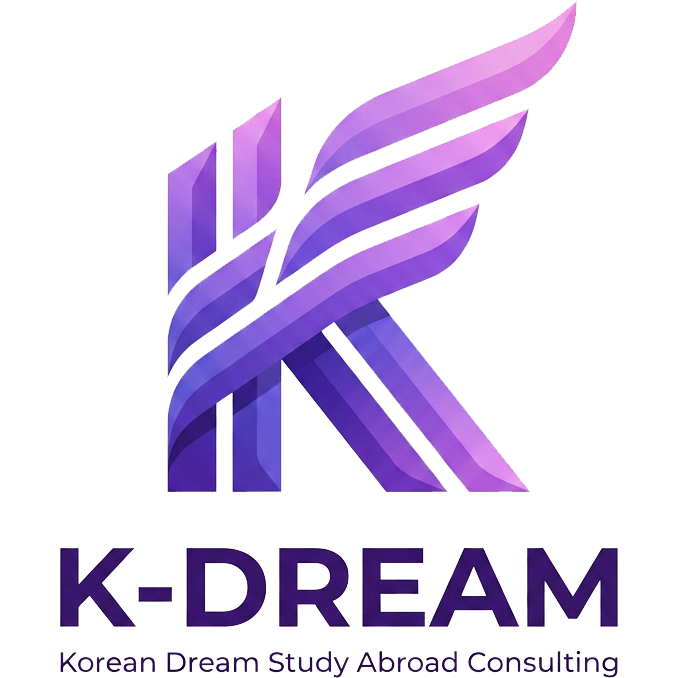
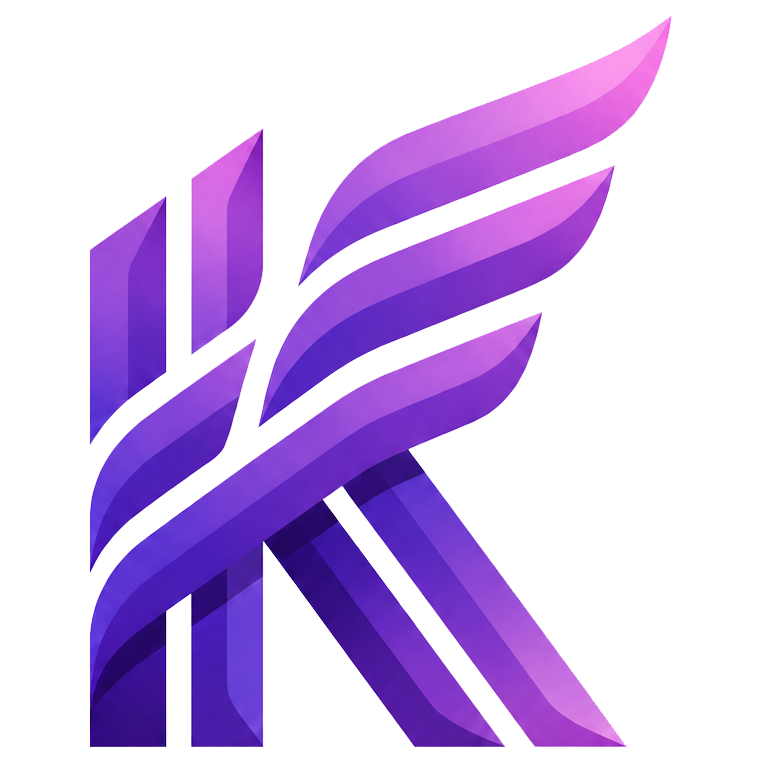
디자인 수정

diff --git a/src/app/page.tsx b/src/app/page.tsx
@@ -162,7 +162,10 @@ function Hero() {
   const { t } = useLanguage();
   const heroPoints = [t("hero.point1"), t("hero.point2"), t("hero.point3")];
   return (
-    <section className="relative pt-16 overflow-hidden">
+    <section
+      className="relative mt-16 overflow-hidden"
+      style={{ minHeight: "fit-content", height: "calc(100dvh - 4rem)" }}
+    >
       {/* 배경: 이미지 + 오버레이 */}
       <div className="absolute inset-0">
         <Image
@@ -181,8 +184,21 @@ function Hero() {
         <div className="absolute bottom-20 right-10 w-96 h-96 bg-[#2F6BFF]/10 rounded-full blur-3xl" />
       </div>
 
-      <div className="relative max-w-7xl mx-auto px-4 sm:px-6 lg:px-8 py-24 sm:py-32 lg:py-40">
-        <div className="text-center">
+      <div className="relative mx-auto flex max-w-7xl min-h-full items-center px-4 sm:px-6 lg:px-8">
+        <div className="w-full py-12 text-center sm:py-14 lg:py-16">
+          <div className="mb-6 flex justify-center">
+            <div className="relative">
+              <div className="absolute inset-[-28px] rounded-full bg-[radial-gradient(circle,rgba(143,199,255,0.34)_0%,rgba(47,107,255,0.16)_42%,rgba(255,255,255,0)_74%)] blur-2xl" />
+              <Image
+                src="/images/hero-logo.png"
+                alt="K-DREAM"
+                width={240}
+                height={240}
+                className="hero-logo relative h-44 w-44 object-contain drop-shadow-[0_20px_40px_rgba(58,28,146,0.34)] sm:h-48 sm:w-48 lg:h-56 lg:w-56"
+                priority
+              />
+            </div>
+          </div>
           <h1 className="text-3xl sm:text-4xl lg:text-6xl font-bold text-white leading-tight mb-6">
             {t("hero.title1")}
             <br />
@@ -830,9 +846,9 @@ function Footer() {
       <div className="max-w-7xl mx-auto px-4 sm:px-6 lg:px-8">
         <div className="flex flex-col sm:flex-row items-start sm:items-center justify-between gap-4 mb-6 text-left">
           <div className="flex items-center gap-2">
-            <Image src="/images/logo.png" alt="K-DREAM" width={28} height={28} className="w-7 h-7 object-contain" />
+            <Image src="/icon.png" alt="K-DREAM" width={28} height={28} className="w-7 h-7 object-contain" />
             <div>
-              <span className="font-bold">Korean Dream Study Abroad Consulting</span>
+              <span className="font-bold">Study in Korea Support Center</span>
               <p className="text-xs text-blue-200/60 mt-1">{t("footer.tagline")}</p>
             </div>
           </div>

diff --git a/src/app/globals.css b/src/app/globals.css
@@ -25,6 +25,16 @@ html {
   scroll-behavior: smooth;
 }
 
+.hero-logo {
+  filter: drop-shadow(0 20px 40px rgba(58, 28, 146, 0.34));
+}
+
+@media (prefers-color-scheme: dark) {
+  .hero-logo {
+    filter: brightness(1.16) saturate(1.12) drop-shadow(0 22px 44px rgba(214, 168, 255, 0.28));
+  }
+}
+
 /* Partner logos infinite marquee */
 @keyframes marquee {
   0% {

diff --git a/src/lib/translations.ts b/src/lib/translations.ts
@@ -251,8 +251,8 @@ export const translations = {
     en: "K-DREAM, a specialized support service for international students",
   },
   "footer.address": {
-    ko: "사업장 소재지: 경북 포항시 남구 연일읍 유강길10번길 8 | 업태: 교육서비스업 | 종목: 유학알선",
-    en: "Address: 8, Yugang-gil 10beon-gil, Yeonil-eup, Nam-gu, Pohang-si, Gyeongbuk | Industry: Education Service | Type: Study Abroad Consulting",
+    ko: "사업장 소재지: 포항시 남구 연일읍 유강길 10번길 8, 우영빌딩 2층 | 업태: 교육서비스업 | 종목: 유학알선",
+    en: "Address: 2F, Wooyoung Building, 8, Yugang-gil 10beon-gil, Yeonil-eup, Nam-gu, Pohang-si | Industry: Education Service | Type: Study Abroad Consulting",
   },
 
   // Mobile Bottom CTA